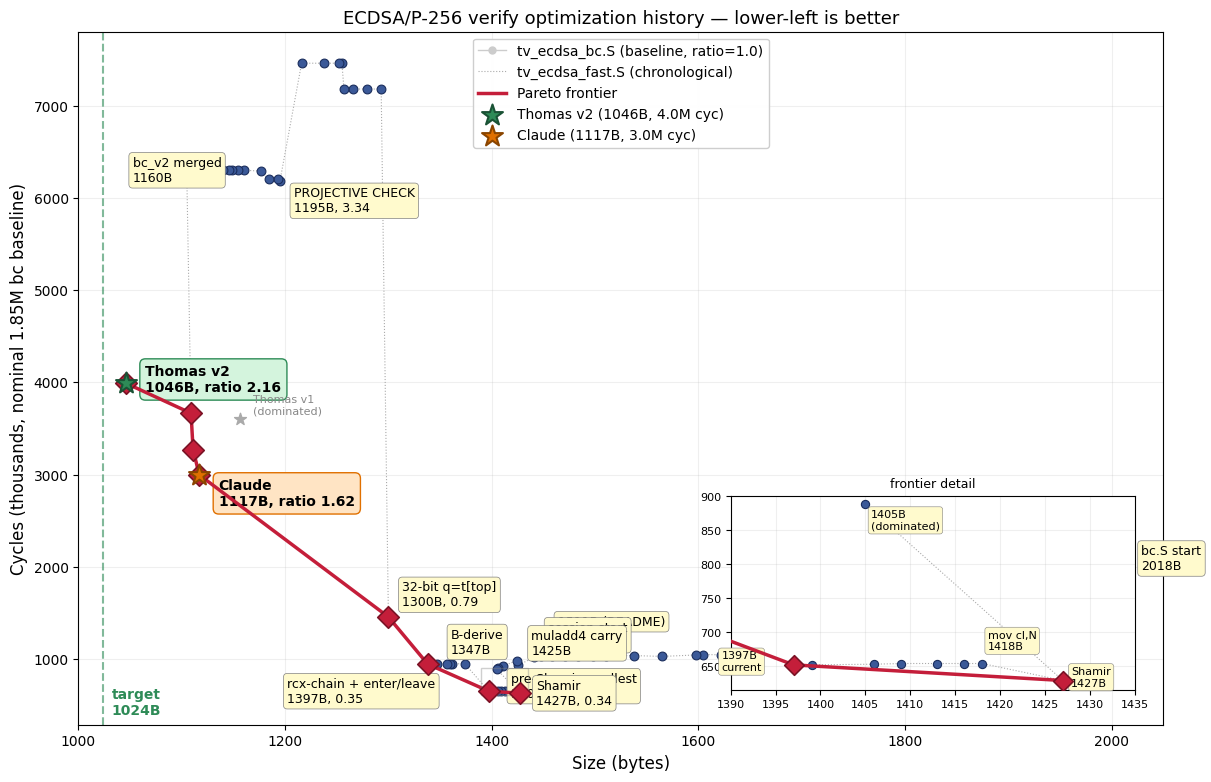
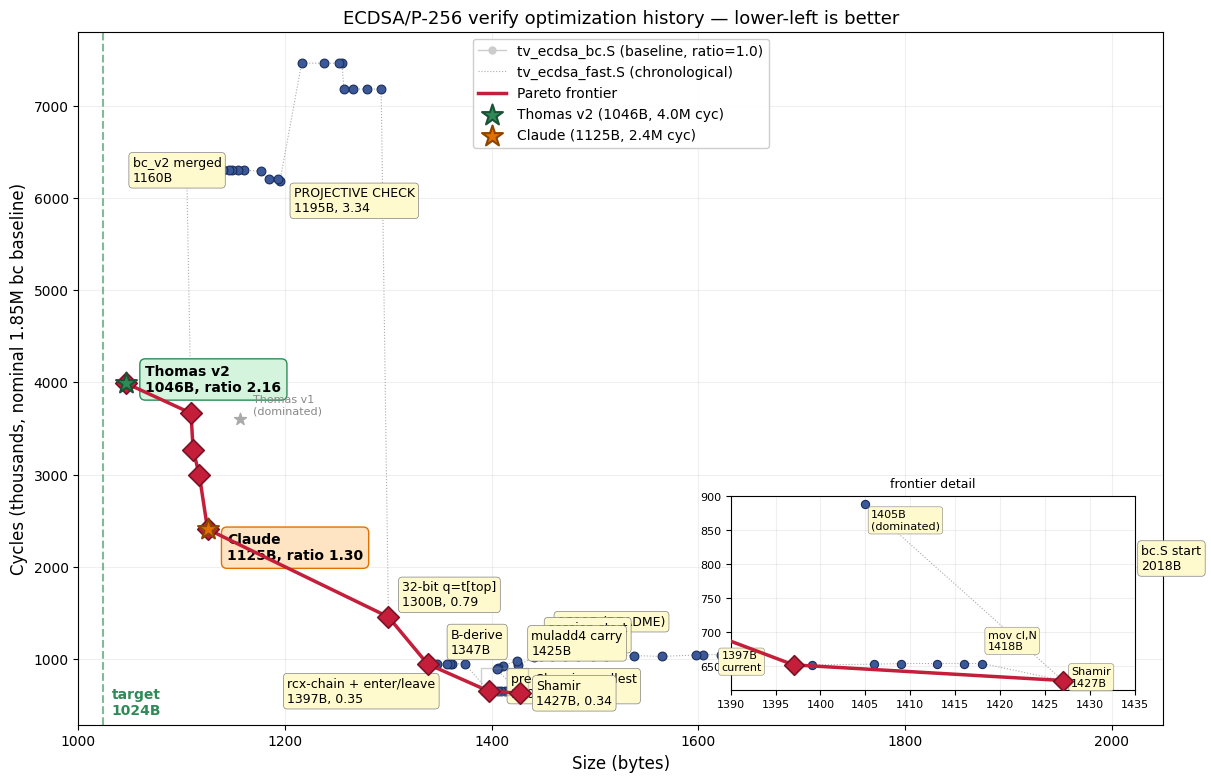
Chart: 64-bit schoolbook at 1125B/1.30 — new default, new Pareto
Fills the gap between 1117 and 1300.  Five Claude points on
the frontier now (1109/1111/1117/1125 + all fast.S points).
Thomas v2 still holds the size corner.

Changed region(s): [[0.1528, 0.5831, 0.3361, 0.798], [0.4889, 0.1535, 0.55, 0.1841]]

diff --git a/docs/plot_history.py b/docs/plot_history.py
@@ -90,7 +90,8 @@ FAST = [
     # we're faster).  Ratios on this machine, bc.S ≈ 1.88M. ---
     (1109, 3665, None),   # +4B: mul8 loop→dec+jnz only.  ratio 2.02
     (1111, 3268, None),   # +6B: +pushzero loop fix.       ratio 1.80
-    (1117, 2996, None),   # +12B: +scasd→lea.  DEFAULT.    ratio 1.62
+    (1117, 2996, None),   # +12B: +scasd→lea.              ratio 1.62
+    (1125, 2407, None),   # +8B: 64-bit schoolbook. NEW DEFAULT. ratio 1.30
 ]
 
 def pareto(pts):
@@ -107,7 +108,7 @@ def pareto(pts):
 # he reclaimed the size corner.  But our 1117B stays Pareto: faster.
 THOMAS_V1 = (1156, 3600, "Thomas v1\n1156B, 1.95")
 THOMAS    = (1046, 3990, "Thomas v2\n1046B, 2.16")   # new size record
-CLAUDE    = (1117, 2996, "Claude\n1117B, 1.62")       # Pareto: faster
+CLAUDE    = (1125, 2407, "Claude\n1125B, 1.30")       # Pareto: faster
 TARGET    = 1024
 
 ALL_PTS = FAST + [THOMAS, THOMAS_V1]
